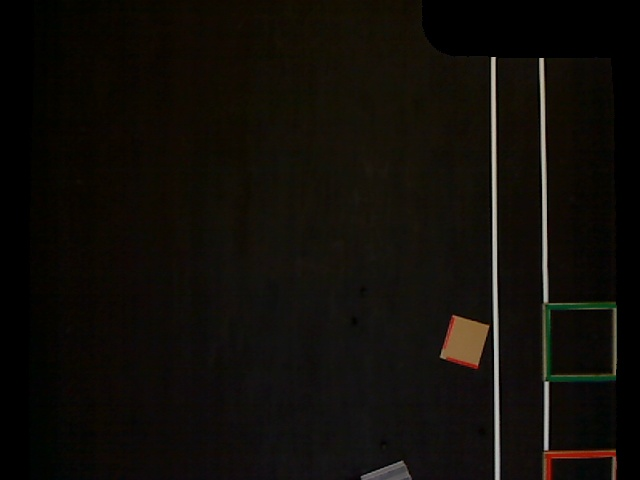
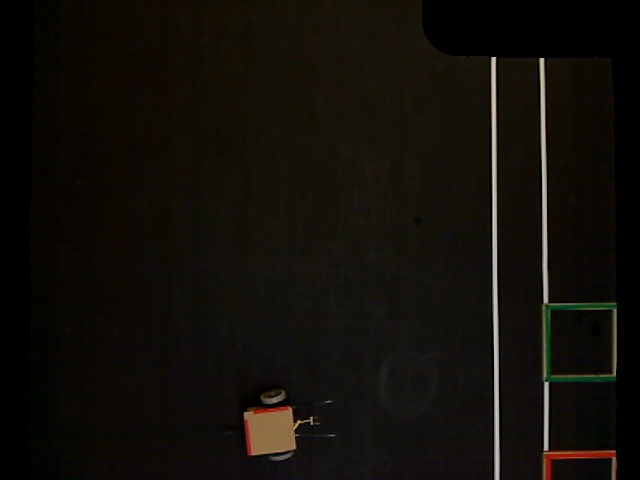
nina can now rotate to correct orientation

diff --git a/computer-vision/robot.py b/computer-vision/robot.py
@@ -1,36 +1,47 @@
 from global_stuff import *
 from arena import *
+import udpComms as udpc
+
+# udpc.setup()
+
 pt = Point
 
 HUE_NORMALISE = 179.0/360.0
 
-# hue values
-TURQOISE = np.array([180, 220])
-VIOLET = np.array([230, 270])
-PINK = np.array([270, 310])
+# # hue values
+# TURQOISE = np.array([180, 220])
+# VIOLET = np.array([230, 270])
+# PINK = np.array([270, 310])
 
-# potentially better (more distributed):
-YELLOW = np.array([35, 65])
-BLUE = np.array([190, 230])
-PURPLE = np.array([250, 290])
+# # potentially better (more distributed):
+# YELLOW = np.array([35, 65])
+# BLUE = np.array([190, 230])
+# PURPLE = np.array([250, 290])
 
 # tape
 RED1 = np.array([0, 20])
 RED2 = np.array([340, 360])
 
 
-
+MAX_THETA_RATE = 45*DEG_TO_RAD # 90 degrees per second
 
 class Robot():
 
     def __init__(self):
-        self.w_m = 0.19
-        self.h_m = 0.15
+        self.w_m = 0.175
+        self.h_m = 0.155
         self.dims = np.array([self.h_m, self.w_m])
 
         self.origin_history = []
         self.axes_history = []
         self.timestamps = []
+
+        # target rotation and position
+        self.t_rot = None
+        self.t_pos = None
+
+        self.theta_err = None
+        self.latest_cmd = None
 
     def draw_coord_sys(self, img):
 
@@ -46,7 +57,10 @@ class Robot():
         img = draw_line_from_params(img, origin, axes[1], (0, 255, 255))
         
         cv2_cross(img, pt(idx=origin).idx, 3, (255, 0, 255), 2)
+        cv2_cross(img, pt(pos=self.get_centre_coords()).idx, 3, (255, 255, 255), 1)
 
+        cv2_text(img, "latest command: " + str(self.latest_cmd), (50, 50), (255, 255, 255))
+        cv2_text(img, "rotation error: " + str(self.theta_err), (50, 100), (255, 255, 255))
 
         # mpl_show(robot_img)
         if not USE_VIDEO:
@@ -57,18 +71,27 @@ class Robot():
 
     def get_pos_estimate(self):
 
-        if len(self.origin_history) < 2:
+        if len(self.origin_history) < 1: # make this 3
             return None
 
         # punish records which were a long time ago
         weights = np.exp(8.0*(np.array(self.timestamps) - self.timestamps[-1]))      
-        print(weights)
+        # print(weights)
 
         def weighted_ave(arr):
             return sum([weights[i] * arr[i] for i in range(len(weights))])/sum(weights)
     
         # print(self.origin_history)
         return weighted_ave(self.origin_history), weighted_ave(self.axes_history)
+
+
+    def get_centre_coords(self):
+
+        origin, dirs = self.get_pos_estimate()
+        
+        offset = (self.dims - 0.005)/2
+
+        return pt(idx=origin).pos + np.matmul(dirs, offset)
 
 
     def record_pos(self, origin, axes):
@@ -105,6 +128,7 @@ class Robot():
             del self.timestamps[0]
 
 
+
     def update_pos(self, img):
         img = cv2.bitwise_and(img, ROBOT_MASK)
 
@@ -115,15 +139,76 @@ class Robot():
 
         origin, axes = res
 
-        # print("found at", origin, axes)
-
         self.record_pos(origin, axes)
 
 
-    
+    # in real world coords
+    def set_target(self, pos, rot):
+        self.t_pos = pos
+
+        if abs(1.0-pythag(rot)) > 0.01:
+            rot = rot / pythag(rot)
+
+        self.t_rot = rot
+
+
+
+    def do_control(self):
+        
+        vals = self.get_pos_estimate()
+
+        if vals is None:
+            return
+
+        real_rot = vals[1][1] # heading vector
+        real_pos = self.get_centre_coords()
+
+        sign = lambda x: x/abs(x) if abs(x) > 0.000001 else 1
+
+        # print("target_rot", self.t_rot)
+        # print("actual_rot", real_rot)
+
+        if self.t_rot is not None:
+            d_prod = np.dot(self.t_rot, real_rot)
+            c_prod = self.t_rot[0] * real_rot[1] - self.t_rot[1] * real_rot[0]
+
+            # print("c_prod", c_prod)
+
+            theta_err = np.arccos(d_prod)
+            if c_prod < 0:
+                theta_err = -theta_err
+
+            self.theta_err = theta_err
+            # print("theta error (rad):", theta_err)
+
+            if abs(theta_err) > DEG_TO_RAD * 10:
+
+                # TODO: stop moving forward
+                
+                if abs(theta_err) > DEG_TO_RAD * 15:
+                    theta_rate = - MAX_THETA_RATE * sign(theta_err)
+                
+                else:
+                    theta_rate = - MAX_THETA_RATE * theta_err / (DEG_TO_RAD * 15)
+
+                if theta_rate > 0:
+                    self.send_cmd("turn right until")
+
+                else:
+                    self.send_cmd("turn left until")
+
+                
+            else:
+                self.send_cmd("stop")
+
+
+    def send_cmd(self, cmd_txt):
+        if cmd_txt != self.latest_cmd:
+            udpc.sendCommand(cmd_txt.encode())
+            self.latest_cmd = cmd_txt
+
 
 robot = Robot()
-
 
 SQRT2 = 2**0.5
 _1_SQRT2 = 1/SQRT2

diff --git a/computer-vision/udpComms.py b/computer-vision/udpComms.py
@@ -1,22 +1,9 @@
 from global_stuff import *
 
-def setup():
-    # bind all IP
-    HOST = '0.0.0.0' 
-    # Listen on Port 
-    PORT = 44444 
-    #Size of receive buffer   
-    BUFFER_SIZE = 1024    
-    # Create a TCP/IP socket
-    s = socket.socket(socket.AF_INET, socket.SOCK_DGRAM)
-    # Bind the socket to the host and port
-    s.bind((HOST, PORT))
-    # Start thread for receiving data
-    rxthread = threading.Thread(target=rxThread)
-    rxthread.start()
+
 
 def rxThread():
-    s.sendto(b"Hello from python", ("192.168.43.82", 2390))
+    s.sendto(b"Hello from python", (IP, 2390))
     while True:
         # Receive BUFFER_SIZE bytes data
         # data is a list with 2 elements
@@ -31,4 +18,21 @@ def rxThread():
     s.close()
 
 def sendCommand(command):
-    s.sendto(command, ("192.168.43.82", 2390))
+    s.sendto(command, (IP, 2390))
+
+IP = "192.168.137.142"
+
+# def setup():
+# bind all IP
+HOST = '0.0.0.0' 
+# Listen on Port 
+PORT = 44444 
+#Size of receive buffer   
+BUFFER_SIZE = 1024    
+# Create a TCP/IP socket
+s = socket.socket(socket.AF_INET, socket.SOCK_DGRAM)
+# Bind the socket to the host and port
+s.bind((HOST, PORT))
+# Start thread for receiving data
+rxthread = threading.Thread(target=rxThread)
+rxthread.start()

diff --git a/computer-vision/global_stuff.py b/computer-vision/global_stuff.py
@@ -13,7 +13,8 @@ DO_MINES = False
 DO_ROBOT = True
 F_NAME = "robot_mode.jpg"
 
-
+DEG_TO_RAD = math.pi/180.0
+RAD_TO_DEG = 180.0/math.pi
 
 # must be 3:4 H:W ratio
 RESOLUTION = np.array([640, 480]) # x, y
@@ -79,3 +80,12 @@ class Stopwatch():
         
         return 0
         
+
+def cv2_text(image, txt, idx, colour):
+    font = cv2.FONT_HERSHEY_SIMPLEX 
+    fontScale = 0.5    
+    thickness = 1
+    
+    # Using cv2.putText() method 
+    return cv2.putText(image, txt, idx, font,  
+                       fontScale, colour, thickness, cv2.LINE_AA) 

diff --git a/computer-vision/main.py b/computer-vision/main.py
@@ -141,7 +141,10 @@ if __name__ == "__main__":
                 robot.update_pos(r_frame)
                 
                 robot.draw_coord_sys(r_frame)
-                
+
+                robot.set_target(np.array([1.0, 1.0]), np.array([1.0, 0.0]))
+
+                robot.do_control()
 
                 to_show = illustrate(r_frame, mine_data)
 
@@ -168,7 +171,7 @@ if __name__ == "__main__":
 
         if DO_ROBOT:
             robot.update_pos(img)
-
+            robot.draw_coord_sys(img)
 
         mine_data = []
         if DO_MINES:
